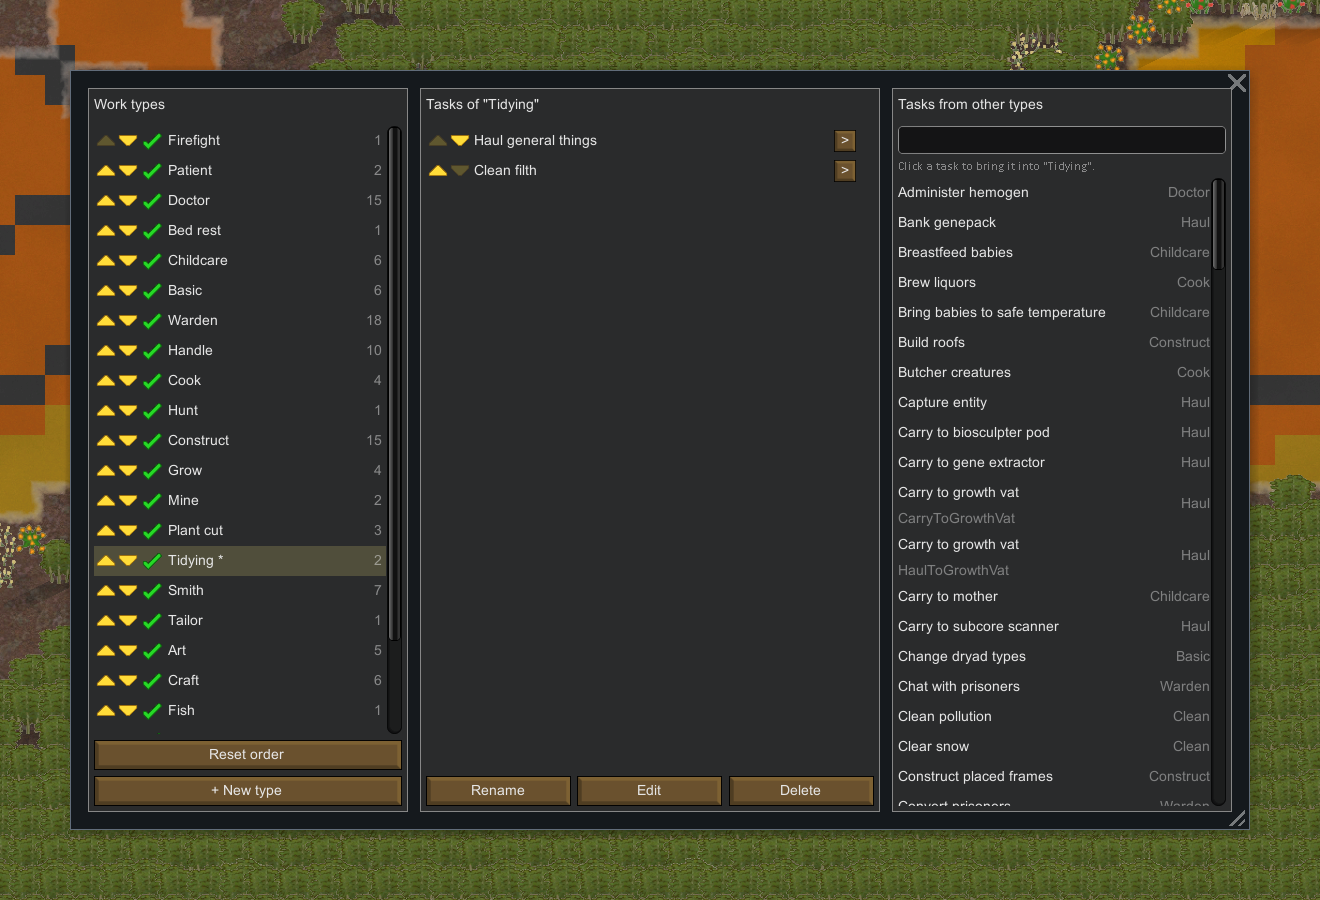
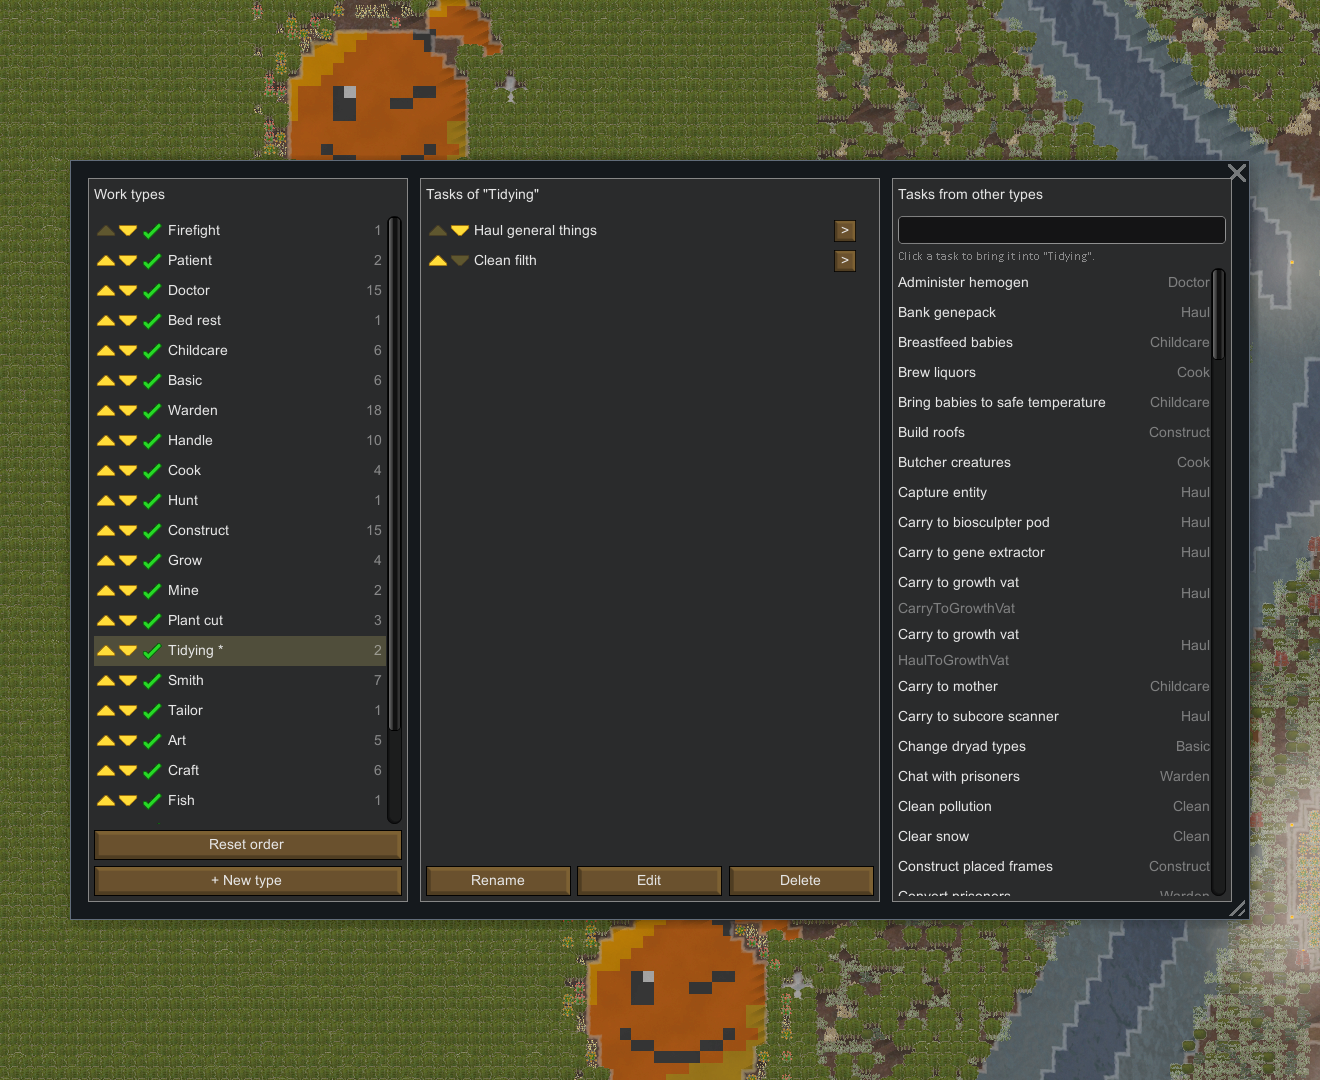
Gallery 1: the editor on window-backdrop-for-height, cropped on the sides (run cbb5); STATUS tells where image 2 stands

diff --git a/STATUS.md b/STATUS.md
@@ -17,7 +17,7 @@ tested_on:    2026-09-21
 workshop:     3792836684
 remaining:
   - "reviewed 2026-10-06: the two files the 2026-10-05 pass had not read, Source/UI/Dialog_WorkTypes.cs (v1.0.0..HEAD) and Source/UI/Dialog_EditWorkType.cs, read by hand while waiting on the queue (not a /code-review run): no correctness finding. Notes, not defects: the label layout caches (truncatedMiddle, laidOut) key on text and width only and never shrink; Text.CalcSize depends on the font, which every caller sets to Small first."
-  - "gallery 2026-10-06: Art/Gallery/ holds 0-preview.png and the three images of the sanctuary runs, read one by one: 1-early-morning-the-editor (window-backdrop-for-width, cropped around the window) and 3-late-morning-the-settings (window-backdrop-for-height, cropped), both from run 87ce (WorkStudio fb4adf6, evidence/gallery-3), and 2-morning-the-new-column (Nelim tidying the shore of water-garden, learning helper, alerts and resource list hidden by Pickle Tools steps), from run 678f (784b706, evidence/gallery-4). The owner approved 1; asked for a more scenic 2 and for 3 on a backdrop and cropping (done, to be looked at again). Upload by hand once she agrees. Since 2026-10-06 the editor names the vanilla types by their short label (Cook, Hunt...) as the Work tab columns do, instead of the raw defName."
+  - "gallery 2026-10-07: Art/Gallery/ holds 0-preview.png and three images of the sanctuary, read one by one: 1-early-morning-the-editor (window-backdrop-for-height, cropped on the sides to 1320x1080, since PUBLISHING.md of 2026-10-06 puts full-screen interface windows there), from run cbb5 (evidence/gallery-8); 3-late-morning-the-settings (window-backdrop-for-height, cropped), from run 87ce (evidence/gallery-3); and 2-morning-the-new-column (Nelim carrying a log among the things to tidy, burrow and learning helper out of the frame), from run 678f, to be replaced, WAITING for the owner: the run to keep is bc2c (evidence/gallery-7, zoom 4), not yet copied, and the 3.2 MB PNG there is over the 2 MB limit and must be converted (JPEG 95) when it is. Upload by hand once she agrees. Since 2026-10-06 the editor names the vanilla types by their short label (Cook, Hunt...) as the Work tab columns do, instead of the raw defName."
   - "reviewed 2026-10-05: /code-review at low effort on v1.0.0..c8e02c6 (full SHA c8e02c647a9190ac4f58365376033f5a6ec48496), 66 files, no finding. Test and fixture hunks skipped. Not read: Source/UI/Dialog_WorkTypes.cs (538 changed lines) and Source/UI/Dialog_EditWorkType.cs; a medium or high pass would cover them."
   - "verified: 2026-09-22 minimal English, minimal French and Better Work Tab full Pickle passes each report 49 passed, 0 failed, 6 skipped; Work Type Tag reports 50 passed, 0 failed, 5 skipped. Each complete report was copied to Tests/Pickle/evidence before the shared lock was released and relevant captures were opened; the copies of the minimal English/French, Enhanced Work Tab, Work Type Tag and Better Work Tab passes were deleted on 2026-09-23 to free disk, replaced by the 2026-09-23 runs (summaries in docs/runs/2026-09-22.md and 2026-09-23.md)."
   - "defect found in visual review: the MainButtons settings dialog footer covered the English save note and hid the French note; long renamed or custom Work tab headers overlapped neighbouring headers in both languages. A larger dialog without the redundant footer button and an icon/tooltip fallback for overlong headers are built; in-game captures must confirm both before tested."
